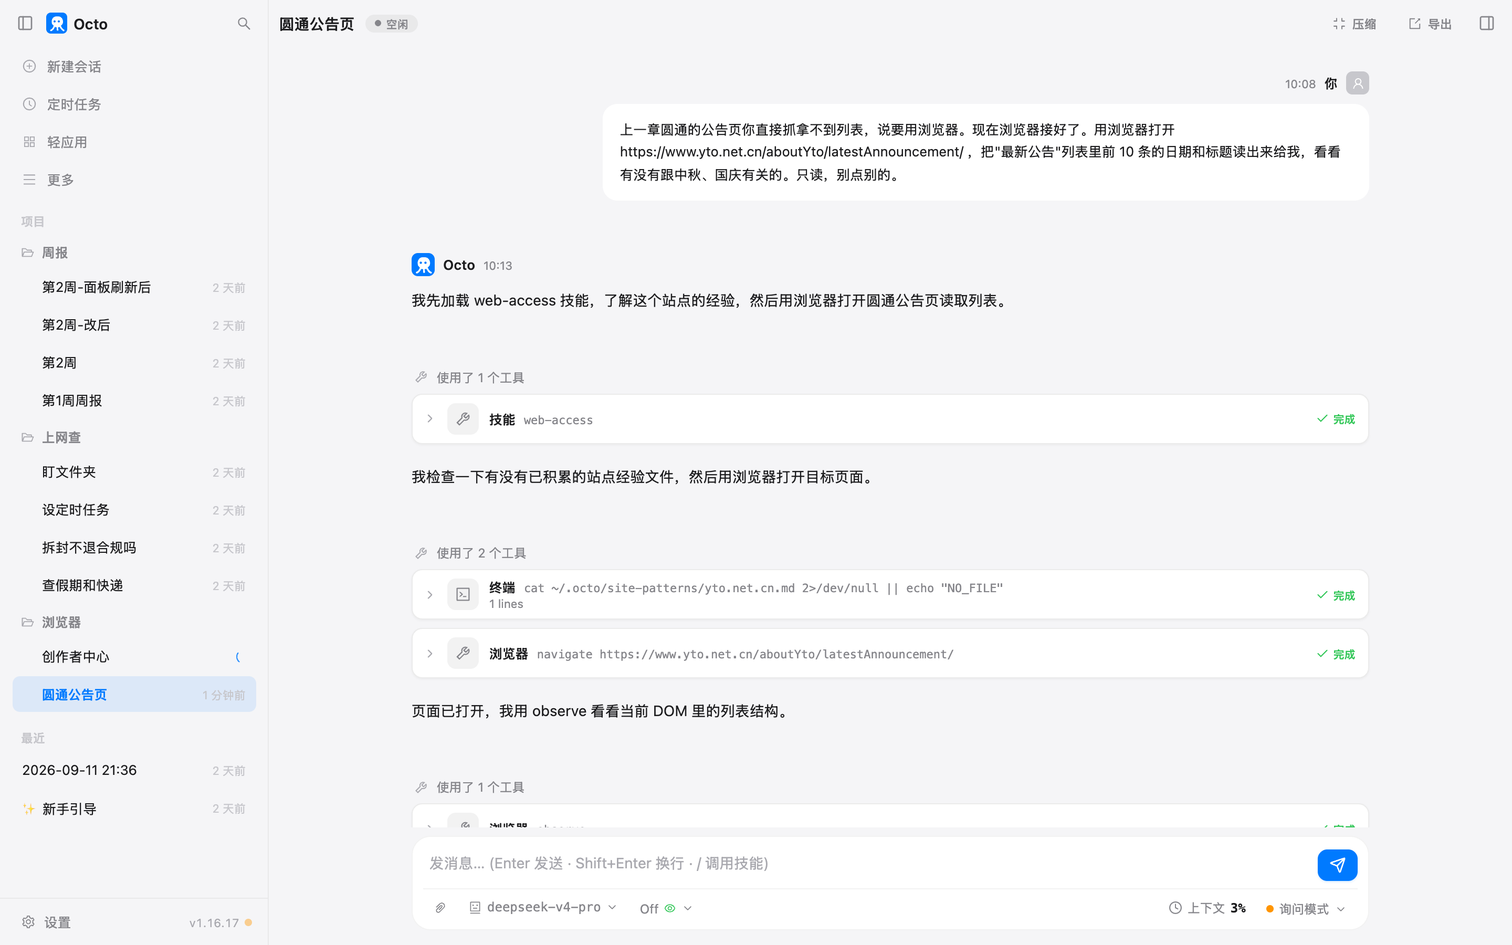
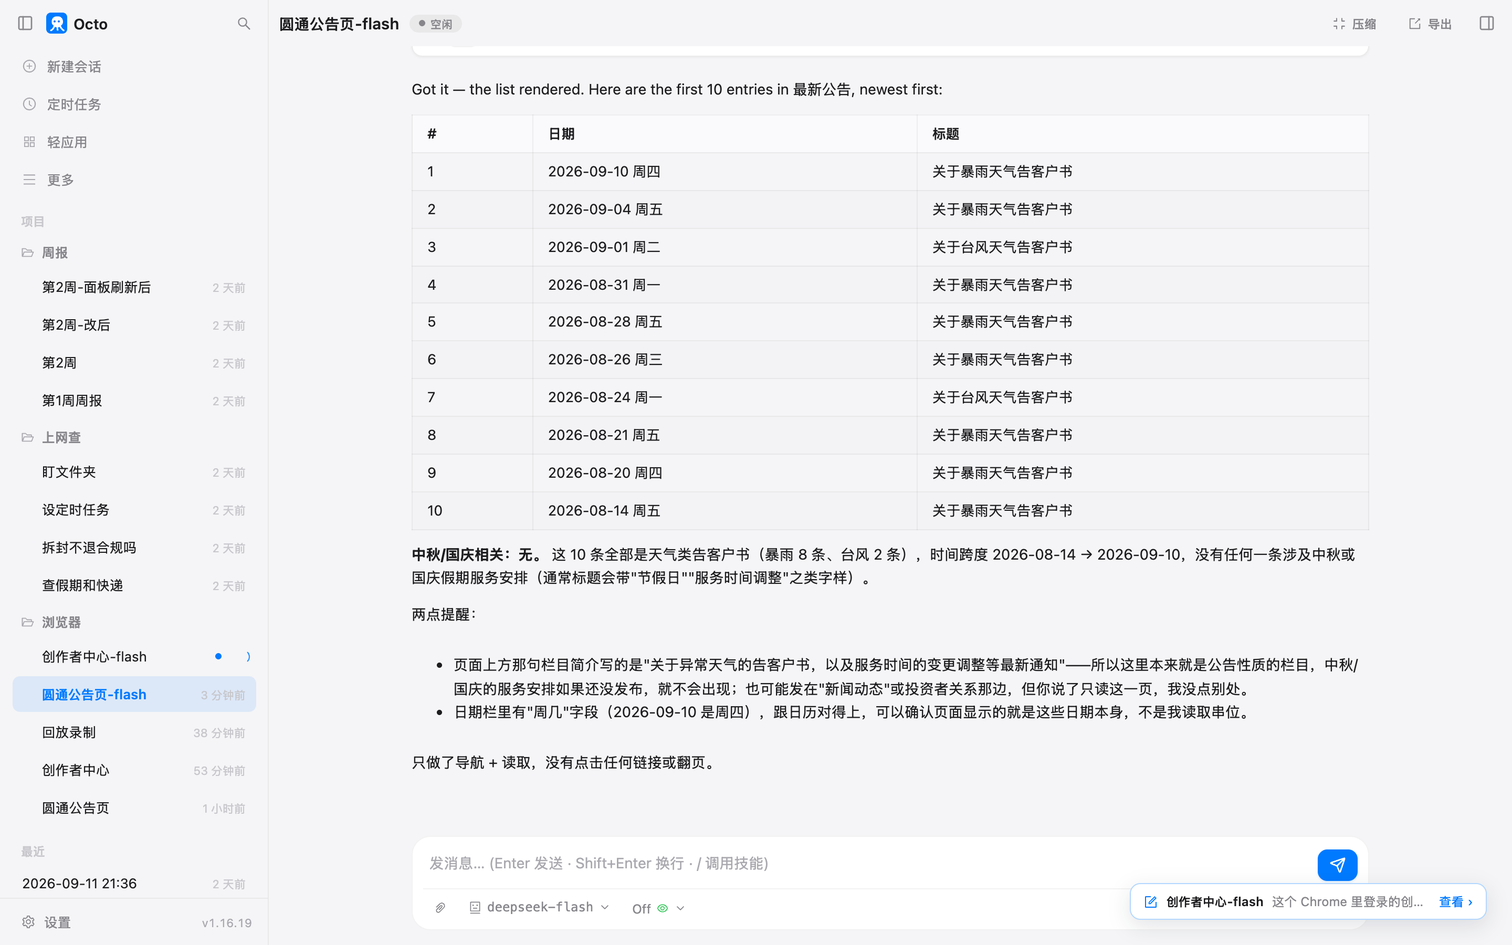
Chapter 10 rewritten on deepseek-flash: it finds the note manager itself, self-corrects the column order, asks before touching the account; self-heal deferred to issue #2404

diff --git a/src/part1/ch10-browser.md b/src/part1/ch10-browser.md
@@ -1,6 +1,6 @@
 # 第 10 章 接上你的浏览器
 
-> 这一章的功能 octo 标着 Beta。写的时候（1.16.17）能用，行为随版本变的可能性比前几章大。
+> 这一章的功能 octo 标着 Beta。写的时候（1.16.19）能用，行为随版本变的可能性比前几章大。
 
 第 9 章抓网页，抓的是任何人都能看的页面。第 11 章那个定时任务撞上了另一种：圆通的公告页打开是空的，
 列表要等页面里的脚本跑完才出来，直接抓拿到的是骨架。还有第三种，登录了才能看的：你的小红书后台、公司的系统。
@@ -22,29 +22,24 @@
 
 > 上一章圆通的公告页你直接抓拿不到列表，说要用浏览器。现在浏览器接好了。用浏览器打开 https://www.yto.net.cn/aboutYto/latestAnnouncement/ ，把"最新公告"列表里前 10 条的日期和标题读出来给我，看看有没有跟中秋、国庆有关的。只读，别点别的。
 
-![它先加载 web-access 说明书，看有没有这个站点的经验文件，然后用浏览器打开页面](../assets/ch10/01-yto-browser-start.png)
+三个动作，十秒：打开页面；`observe` 看一眼页面上能点的元素，发现只有导航栏、没有列表，
+它自己判断"列表是页面脚本渲染的"；然后用 `eval` 在页面里跑一句读整页文字的脚本，列表就在文字里。
 
-浏览器工具有好几双"眼睛"，这一轮它换着用了一遍：
+![圆通最新公告前 10 条，全是暴雨和台风的告客户书，没有中秋国庆相关](../assets/ch10/01-yto-browser-start.png)
 
-| 动作 | 看到什么 | 这次的结果 |
+它还多说了两句：栏目简介写的是"异常天气告客户书以及服务时间变更调整"，所以中秋国庆的安排如果还没发就不会出现；
+日期栏带"周几"，跟日历对得上，说明没读串行。我另外用自己的浏览器打开同一页核了一遍，十条一字不差。
+
+浏览器工具有好几双"眼睛"，这一轮用了两双。全部列一下：
+
+| 动作 | 看到什么 | 什么时候用 |
 |---|---|---|
-| observe | 页面上能点、能填的元素 | 只有导航栏，没有公告列表 |
-| ax | 无障碍树，屏幕阅读器看到的结构 | 有"最新公告"标题，列表条目不在里面 |
-| screenshot | 截图 | 拍下来了，也发给模型了，但它说"当前模型无视觉能力"。原因在接口那一头，见翻车点 |
-| eval | 在页面里跑一小段脚本，把文字读出来 | 拿到了 |
+| observe | 页面上能点、能填的元素，带文字 | 先看一眼陌生页面，最省 |
+| ax | 无障碍树，屏幕阅读器看到的结构 | 要看文档结构、按钮在其次 |
+| eval | 在页面里跑一小段脚本，把文字读出来 | 前两个看不到内容的时候 |
+| screenshot | 截图，交给能看图的模型 | 内容是视觉的（图表、版式） |
 
-前三双眼睛都没看到列表。它第一次要用 eval 的时候我拒了（下面风险提醒会说为什么），它又滚动、又 observe，
-最后停下来问我：
-
-> 公告列表条目没有被 observe/ax 列出来，截图我也读不到（当前模型无视觉能力）。你刚才拒绝了我用 eval 读 DOM。要我用什么方式读取这个只读列表？
-
-我选了"允许 eval 只读取文本"。它跑了一句读整页文字的脚本，前 10 条出来了：
-
-![圆通最新公告前 10 条，全是暴雨和台风的告客户书，没有中秋国庆相关](../assets/ch10/02-yto-list-result.png)
-
-我另外用自己的浏览器打开同一页核了一遍，十条的日期和标题一字不差。
-
-这一轮 **23 次权限框**。浏览器的每一个动作，打开页面、看一眼、滚一下、截个图，在询问模式下都要问你一次。
+这一轮 **3 次权限框**：打开页面一次，observe 一次，eval 一次。浏览器的每一个动作在询问模式下都要问你。
 第 9 章抓网页问的是"允不允许打开这个网址"，这一章问的是"允不允许点这一下"。粒度细到这个程度是故意的，
 因为下一个活是在你的账号上。
 
@@ -54,19 +49,69 @@
 
 > 用浏览器打开小红书创作者中心 https://creator.xiaohongshu.com/ ，这个 Chrome 里已经登录了。进到笔记管理，把最近 5 篇笔记的标题、发布时间、浏览、点赞、评论数读出来列成一张表。然后点开最新一篇的评论区，把能看到的评论读出来，按"提问 / 夸 / 吐槽 / 广告或无关"分四类，每条评论一行，带用户名。全程只读：不点赞、不回复、不关注、不发任何东西、不改任何设置。
 
-页面打开了，登录态在，它看到了左侧菜单里的"笔记管理"。然后它在这一个菜单项上耗了四分钟：
-点了，没跳转；用脚本找这个元素的层级，找到了，再点，还是没跳；悬停、找子菜单、找弹层，都没有。
-中间它想用脚本直接触发点击，被我拒了（那段脚本里有 `.click()`）；它问我"用原生点击还是直接访问网址还是你手动点"，
-我选原生点击，还是没进去。第二次问的时候，我选了"你手动点到笔记管理页"。
+![它先加载 web-access 说明书，查有没有这个站点的经验文件，再接浏览器](../assets/ch10/02-creator-start.png)
 
-这一段 43 次权限框，四分钟。**它不认识这个页面。** 每个网站的菜单长得都不一样，它没有见过这一个，
-只能一样一样试。读者自己的公司系统只会更陌生。
+它先加载了 web-access 那份说明书（管"难搞的网站"的方法论），查了一下有没有攒下的小红书站点经验，没有，
+然后开始。二十几秒里它做了这几步：打开创作者中心首页；看一眼元素；**想读一下 cookie 来确认登录身份，
+被我拒了**（下面风险提醒说为什么）；转到主站看了一眼头像链接；然后直接导航到了笔记管理页的网址。
+这个网址我没给，它自己走到的。
+
+到了列表页，它读出五篇笔记，然后**停下来问我**：
+
+> 这个 Chrome 里登录的创作者中心账号是「Roy」，笔记全是 AI/agent 内容（最新一篇是 2026-08-15 的 Qwen3.8-27B）。这是你要我读的那个账号吗？
+
+它的理由是：这个 Chrome 里还开着别的工作标签页，它不能确定这是我本人的浏览器还是一个测试用的，
+在错的账号上点开评论区会"把别人的数字当成你的报给你"。我答"是"。
+
+### 它把列顺序读错了，然后自己改对
+
+列表页每篇笔记下面是五个数字加五个小图标，没有列名。它一开始按数量级猜：
+最大的是浏览，然后点赞、评论、收藏、分享。第一篇读出来是"浏览 9145，点赞 124，评论 70"。
+
+然后它没有把这张表交出来，而是说"我想先对着页面自己的标注核一下，再把它当事实报给你"。
+它试了几条路：找表头，没有；找图标上的提示文字，没有；用笔记编号手拼一个详情页网址，被小红书拦了，
+页面说"当前笔记暂时无法浏览"；最后用 `click` 点了封面，小红书开了一个新标签页，网址后面带着一串
+只有从站内点进去才有的参数。详情页上三个数字带着真实的类名：点赞 96、收藏 70、评论 124，
+评论区标题写着"共 124 条评论"。
+
+对回去，列表页那五个数字的顺序是**浏览、评论、点赞、收藏、分享**。它自己的话：
+
+> 我一开始按数量级猜是「浏览/点赞/评论/收藏/分享」，**这是错的**。
+
+改过的表：
+
+| 标题 | 发布时间 | 浏览 | 点赞 | 评论 |
+|---|---|---|---|---|
+| Qwen3.8-27B开源，家用显卡可跑 | 08-15 12:01 | 9145 | 96 | 124 |
+| 最注重隐私和数据安全的 AI agent | 08-14 21:03 | 228 | 3 | 0 |
+| 开源AI Agent：40MB本地编程助手 | 08-14 20:24 | 313 | 4 | 2 |
+| 原厂harness一定更好吗 | 08-13 12:09 | 3832 | 43 | 15 |
+| 你并不需要一个 agent | 08-07 20:23 | 344 | 18 | 1 |
+
+我去后台看了第一篇：点赞 96，评论 124。对的。它还补了一句：只在第一篇上做了这个核对，
+后四篇按同一个顺序读的，没逐篇打开。
+
+这一段值得记住的是顺序：它先按常识猜，然后不满意，去找页面自己的标注，找到了再改。
+五个没有标签的数字，猜对的概率本来就只有几分之一，它知道这一点。
+
+### 评论
+
+读评论那一轮我加了一句"回复请全程用中文"，因为前一轮它干活时的自述是英文的，只有最后汇报是中文。
+36 秒，读到 45 条（30 条评论加 15 条展开着的回复，124 条里其余的折叠着），分成四类：
+提问 24 条（用什么卡、占多少显存、M5 能不能跑），夸 3 条，吐槽 7 条（比想象中慢、写代码还是得用 API），
+广告 0 条。作者本人的回复它标了出来，还说明了几条两可的怎么归。
+
+![评论分四类，末尾是几点说明和一处它自己交代的偏离](../assets/ch10/04-comments-classified.png)
+
+末尾它主动交代了一处偏离：我说"用 click 点封面进详情页"，它发现上一轮点开的那个详情页标签还在，
+就直接读了，没有再点一次；要是我要它重走一遍，它可以。
 
 ## 录一遍给它看
 
-它试不出来的路，你点一遍它就会了。这是这一章的核心功能。
+上面那一段它自己找到了路。但陌生的后台不都这么顺：菜单点了不跳、入口藏在二级页面、同一个词出现在三个地方。
+这时候有一个办法比让它试强得多：你点一遍，它录下来。
 
-> 先停一下，别再找了。我来亲手录一遍操作给你：开始录制，录制名叫 查最新评论。我会在你打开的那个标签页里点：进笔记管理，找到最新一篇笔记，点开它的评论。我做完会说"做完了"，你再停止录制。
+> 开始录制，录制名叫 查最新评论。我会在你打开的那个标签页里点：进笔记管理，找到最新一篇笔记，点开它的评论。我做完会说"做完了"，你再停止录制。
 
 它调了一下 `record_start`，然后把浏览器交给我。我在它开的那个标签页里点了三下：笔记管理、最新一篇的封面、评论。
 说"做完了"，它调 `record_stop`：
@@ -74,29 +119,6 @@
 ![record_start 之后它等我操作，"做完了"之后 record_stop，录到 10 步](../assets/ch10/03-record-start-stop.png)
 
 **录的是我的操作，不是它的。** 这跟第 8 章那份说明书是两码事：说明书写的是话，录制存的是点击。
-
-录完它先读了一遍录制文件，从里面拿到了两条它之前四分钟没试出来的信息：笔记管理页的真实网址，
-以及最新那篇笔记的网址。然后回到标签页，一看页面已经停在笔记管理，直接开始读。两分钟，最近 5 篇的表出来了：
-
-| 标题 | 发布时间 | 浏览 | 点赞 | 评论 |
-|---|---|---|---|---|
-| Qwen3.8-27B开源，家用显卡可跑 | 08-15 12:01 | 9133 | 124 | 70 |
-| 最注重隐私和数据安全的 AI agent | 08-14 21:03 | 228 | 0 | 3 |
-| 开源AI Agent：40MB本地编程助手 | 08-14 20:24 | 313 | 2 | 4 |
-| 原厂harness一定更好吗 | 08-13 12:09 | 3832 | 15 | 43 |
-| 你并不需要一个 agent | 08-07 20:23 | 344 | 1 | 18 |
-
-它自己加了一条注：列表页那一栏写 70，点进详情页评论区顶上写"共 124 条评论"，两个数口径不一样，
-一个只数一级评论，一个连回复都算。这种差别你自己看后台大概也没留意过。
-
-评论区它读到了 21 条（10 条一级评论加 11 条展开着的回复，124 条里其余的折叠着），分成四类。
-提问那一类是"用的什么卡"、"占多少显存"、"5060Ti 16G 能跑吗"；夸的那一类是"试了 q3 量化非常棒"、
-"1M 上下文占显存 76G，智力太顶"；吐槽那一类是"比想象中的慢"、"一天 900 万 token 写代码不够用"；
-广告那一类是空的。它把作者本人的回复也标出来了，没混进去。分类合理，我逐条对过。
-
-这一轮 22 次权限框，两分钟。四分钟没进去的门，录一遍三下点击就过去了。
-
-## 录制文件长什么样
 
 录制存在 `~/.octo/browser-recordings/查最新评论/` 下，两个文件。`events.json` 是原始记录，我每一次点击的位置、
 元素上的文字、旁边的文字、当时的网址。`recording.yaml` 是整理过的执行计划，能看、能改：
@@ -134,59 +156,47 @@ steps:
 后四步要说一下：我点开评论的时候手滑点到了评论输入框，又点了一条评论的"2回复"，然后点"取消"关掉。
 **录制把手滑也录进去了。** 它录的是你做的每一步，不判断哪一步是你想要的。
 
-## 回放：三次
+## 回放
+
+> 回放 查最新评论 这段录制。
 
 **第一次，原样回放。** 前五步全过，第六步"点击评论框"失败：
 
 > step 6 (click): no element matches the recorded fingerprint (label="说点什么...", role="", tag="div") — the page changed or the target is ambiguous (self-heal gave up: heal: model could not identify a replacement selector)
 
-错误信息后面跟了一段诊断指引：录制文件在哪、原始事件在哪、怎么区分"录制时漏了"、"整理时错了"、"页面变了"。
-这段是给你看的，也是给它看的。
-
-它看完页面，给我的诊断是：小红书主站当前**未登录**，评论框是登录后才有的元素，所以找不到。
-听起来很合理。我看了一眼那个标签页右上角：是我的头像，登录着。**诊断是错的。**
-真正的原因我没查出来，可能是那个输入框要滚到才渲染，可能是点击时机。但它给的那个原因说得斩钉截铁，
-不看页面你就信了。
+那一步就是我手滑点的评论框。错误信息后面跟了一段诊断指引：录制文件在哪、原始事件在哪、
+怎么区分"录制时漏了"、"整理时错了"、"页面变了"。这段是给你看的，也是给它看的。
 
 **第二次，我先改文件。** 手滑的那四步本来就不该在，我打开 `recording.yaml` 把第六步往后全删了，只留五步。
-再回放，五步全过，64 秒，页面停在那篇笔记上。**录制是一个文本文件，录错了就删那几行。**
+再回放，五步全过，一分钟，页面停在那篇笔记上。**录制是一个文本文件，录错了就删那几行。**
 
-**第三次，模拟页面改版。** 我把第二步"笔记管理"那一下的选择器全改成不存在的 class，连备选的都改了，
-只留下 `label: 笔记管理` 和 `neighbor_text: 首页`。回放：五步全过，返回里多了一项 `self_healed: true`，
-录制文件被改写了。
+回放本身不叫模型，是浏览器按步骤点，所以快、也稳。每一步先等目标元素出现再点；
+页面结构变了，它会拿录制时存的 `label` 和 `neighbor_text` 去重新找；找不到才叫模型来"自愈"，
+让模型看着页面上现在有的元素挑一个替代。上面第六步就是自愈没挑出来，如实报错。
 
-![改坏选择器后回放，第 2 步自愈成功；再回放一次，直接命中不再自愈](../assets/ch10/04-replay-self-heal.png)
-
-到这里是文档说的那样。我多走了一步：让它去页面上数一数，写回文件的那个新选择器能匹配到几个元素。
-**零个。** 它自愈时"修好"并存下来的选择器，在页面上根本不存在；原来那个真实的 class 能匹配到 6 个菜单项。
-第四次回放照样成功，因为回放找元素时靠的是 `label: 笔记管理` 这个字，选择器对不对已经不重要了。
-
-所以自愈的真相是：**救回来的是这一次回放，写回去的那个修正不一定对。** 靠得住的是你录制时元素上的那几个字。
-页面改版把按钮上的字也改了，这条路就断了。
+自愈这个机制我在写这一章的时候发现了一个 bug：它修好一步之后写回文件的选择器，有可能是一个页面上不存在的，
+下次回放全靠 `label` 兜着才没事。这个问题已经报给 octo（issue #2404），修好之前这一章不展开它。
 
 ## 你要重点检查什么
 
+- **它读回来的数字，找一个去后台对一下。** 列表页那五个没有列名的数字，它这次自己核了第一篇，
+  后四篇没核。你至少抽一篇。
 - **录完先看 yaml。** 手滑的步骤、多点的一下，都在里面，删掉再用。文件不长，一眼能看完。
-- **回放失败时它说的原因，去页面上看一眼再信。** "未登录"这次就是编的。
 - **`label` 那一栏的字。** 回放能扛住改版靠的是它，那串选择器倒在其次。页面上按钮的字要是常变，录制就不稳。
-- **它读回来的数字，找一个去后台对一下口径。** 70 和 124 那种差别，它这次自己发现了，下次不一定。
-- **动作日志里有没有你没要的点击。** 这一轮它在找菜单的时候点过一次"收起侧边栏"。没造成什么，但它点了。
+- **它停下来问你的时候，看它为什么问。** 这次问"这是你的账号吗"是对的，账号错了后面全白做。
+- **动作日志里有没有你没要的动作。** 它这次想读 cookie，被拦了；想用脚本点封面，被拦了。两次都换了别的办法，
+  没有硬来。
 
 ## 翻车点
 
-**它不认识你的页面。** 在创作者中心找"笔记管理"耗了四分钟、43 次权限框，最后是我点的。
-陌生页面的第一次，你要做好自己上手的准备，然后录下来。
+**没有列名的数字它会猜。** 猜错了不奇怪，奇怪的是猜对。它这次自己去核了，你不能指望每次都核。
 
 **录制把手滑录进去，回放就在手滑那一步死。** 第一次回放失败的第六步，就是我误点的评论框。
 
-**自愈写回的修正可能是错的。** 上面验过了。它不影响下一次回放（有 label 兜着），但你要是拿这个文件去别处用，
-或者想读懂它，那一行是假的。
+**它干活时说英文。** 过程里的自述全是英文，只有最后汇报是中文。不影响结果，看着别扭。说一句"全程用中文"就好。
 
-**截图发出去了，模型说看不到。** octo 这边确实把图发了（配置里这个模型标了能看图）。我后来绕开 octo，直接用同一把密钥、
-同一个模型、OpenAI 兼容的图片格式发了一张 25KB 的小图过去，回答是"看不到图"，而且计费的输入只有 106 个 token，
-说明 DeepSeek 的聊天接口把图丢掉了。DeepSeek 的官方接口文档里，写明能收图的模型是 deepseek-flash，没有提 v4-pro。
-所以它说"无视觉能力"说的是实话，只是原因在接口而不在它。
-这两轮它拍了三次图，三次都白拍，然后自己换别的办法。换一个接口真能收图的模型，浏览器这一章会顺很多。
+**手拼的网址会被拦。** 它拿笔记编号拼了一个详情页网址，小红书返回"当前笔记暂时无法浏览"；从站内点进去的网址后面带着一串参数，
+那才是能用的。它自己发现了这一点，也写进了汇报。
 
 ## 风险提醒
 
@@ -194,13 +204,16 @@ steps:
 
 **eval 是最危险的一个动作。** 它在页面里跑一段脚本，脚本里能干的事没有上限，点赞、发评论、改设置都可以一行写完。
 权限框只告诉你"eval"，不会告诉你脚本里有什么。这一章我在自己这边加了一道检查：脚本里出现点击、提交、改值这类操作就拒，
-它有一次真的写了 `.click()` 被拦下来了。你没有这道检查，就只能在权限框上多看一眼脚本内容，看不懂就拒。
+它有一次真的写了一段带点击的脚本被拦下来了。你没有这道检查，就只能在权限框上多看一眼脚本内容，看不懂就拒。
 拒了它会换别的办法，这一章两次都是这样。
 
-**"只读"要写进原话。** 我那句"不点赞、不回复、不关注、不发任何东西、不改任何设置"起了作用，
-它每次汇报都对着这句话说"全程只读"。
+**cookie 别给。** 它想读 cookie 是为了确认登录身份，动机没问题，但 cookie 就是你的登录凭证本身，
+读出来会进对话记录、进发给模型服务商的内容。拒掉之后它靠页面上的头像和账号名确认了身份，一样能办。
 
-**录制里的网址带着你的会话参数。** 那条笔记的网址后面有一长串 token，是当时那一次访问的凭证，
+**"只读"要写进原话。** 我那句"不点赞、不回复、不关注、不发任何东西、不改任何设置"起了作用，
+它每次汇报都对着这句话说"全程只读"，连"评论输入框也没碰过"都单独说了一句。
+
+**录制里的网址带着你的会话参数。** 那条笔记的网址后面有一长串参数，是当时那一次访问的凭证，
 录制原样存了。这个文件别发给别人。
 
 **它在你眼前的 Chrome 里开标签页。** 做完记得关，也记得去 `chrome://inspect` 把那个开关关掉。
@@ -209,24 +222,21 @@ steps:
 ## 用了多久
 
 | 活 | 时间 | 权限框 |
-| --- | --- | --- |
-| 圆通公告页（含一次问我） | 约 1 分 | 23 |
-| 创作者中心找"笔记管理"（没进去） | 4 分（含我答题） | 43 |
-| 开始录制 | 5 秒 | 1 |
-| 停止录制 + 读 5 篇数据 + 读评论分类 | 2 分 4 秒 | 22 |
-| 回放 1（第 6 步失败，含诊断） | 约 1 分半 | 5 |
-| 回放 2（删掉手滑后） | 64 秒 | 2 |
-| 回放 3（改坏选择器，自愈） | 1 分 43 秒 | 1 |
-| 回放 4（验证） | 54 秒 | 1 |
+|---|---|---|
+| 圆通公告页 | 10 秒 | 3 |
+| 创作者中心：进列表、读五篇、核列顺序 | 约 1 分 20 秒（另加我答题的时间） | 36，其中 2 次被拒 |
+| 读评论、分四类 | 36 秒 | 18 |
+| 录制（我点三下） | 约 1 分 | 2 |
+| 回放（删掉手滑后，五步） | 1 分 4 秒 | 2 |
 
-回放本身几乎不需要模型，那是浏览器在按步骤点。慢的是它自己摸索页面的那几段，
-和读回来大段文字再整理的那一段。四分钟找不到菜单，比读完全部数据用的时间还长。
+慢的地方在核对：它为了确认五个数字的顺序开了详情页、对了类名，占了第二行的一大半。这一分钟花得值，
+不核的话表里点赞和评论两列是反的。
 
 ## 上册对照
 
 上册练习 30 叫"浏览器：agent 的另一双手"，写的是怎么把 CDP 接进工具表。这一章你看到了那双手真上手时的样子：
-一双手加一副看不清的眼睛，在陌生页面上要摸四分钟；你握着它点一遍，它下次就直接走。
+自己能找到路的时候它找，找不到的时候你点一遍它照着走。
 
-*最后核对：2026-09-14，octo 1.16.17，Chrome 152。*
+*最后核对：2026-09-14，octo 1.16.19，Chrome 152，deepseek-flash。*
 
 ---
